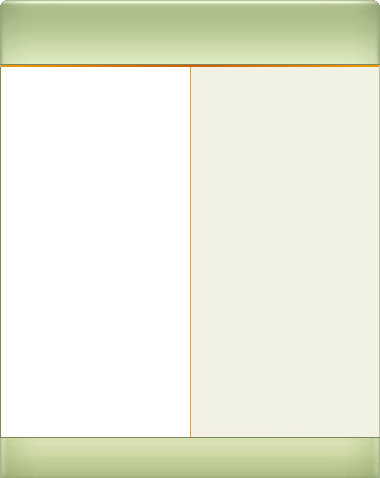
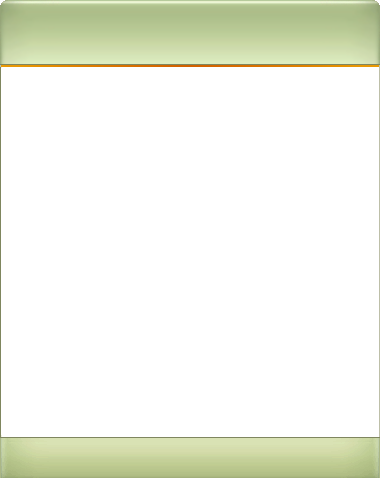
Implement some fixes from #33

diff --git a/Windows XP Homestead/cinnamon/cinnamon.css b/Windows XP Homestead/cinnamon/cinnamon.css
@@ -201,6 +201,8 @@ StScrollBar StButton#vhandle:hover {
   -gradient-height: 1px;
   -gradient-start: rgba(0,0,0,0);
   -gradient-end: rgba(255,255,255,0.2);
+  background-color: rgba(0,0,0,0.15);
+  box-shadow: 0 1px white;
   height: 1px;
 }
 .popup-alternating-menu-item:alternate {
@@ -2219,10 +2221,12 @@ The colour parameters are red, green, blue, and transparency or a name */
 .right-buttons-box {
   background-color: #f1f2e4;
   padding: 8px;
+  border: 0 solid #cca467;
+  border-left-width: 1px;
 }
 .starkmenu-background {
   border: solid 1px transparent;
-  border-image: url("menu-bg.png") 8 8 56 41;
+  border-image: url("menu-bg.png") 8 8 67 42;
   box-shadow: 2px 2px 2px rgba(0,0,0,0.5);
   padding: 54px 1px 29px 1px;
 }
@@ -2232,6 +2236,9 @@ The colour parameters are red, green, blue, and transparency or a name */
 .starkmenu-favorites-box {
   background-color: white;
   border: 0px solid black;
+}
+.starkmenu-favorites-box .menu-favorites-button {
+  padding: 4px;
 }
 .starkmenu-applications-box {
   padding: 0px 0px 0px 0px;

diff --git a/Windows XP Metallic/cinnamon/cinnamon.css b/Windows XP Metallic/cinnamon/cinnamon.css
@@ -199,6 +199,8 @@ StScrollBar StButton#vhandle:hover {
   -gradient-height: 1px;
   -gradient-start: rgba(0,0,0,0);
   -gradient-end: rgba(255,255,255,0.2);
+  background-color: rgba(0,0,0,0.15);
+  box-shadow: 0 1px white;
   height: 1px;
 }
 .popup-alternating-menu-item:alternate {
@@ -2261,10 +2263,12 @@ The colour parameters are red, green, blue, and transparency or a name */
 .right-buttons-box {
   background-color: #e6e6ed;
   padding: 8px;
+  border: 0 solid #b8b8c8;
+  border-left-width: 1px;
 }
 .starkmenu-background {
   border: solid 1px transparent;
-  border-image: url("menu-bg.png") 8 8 56 41;
+  border-image: url("menu-bg.png") 8 8 67 42;
   box-shadow: 2px 2px 2px rgba(0,0,0,0.5);
   padding: 52px 1px 29px 1px;
 }
@@ -2274,6 +2278,9 @@ The colour parameters are red, green, blue, and transparency or a name */
 .starkmenu-favorites-box {
   background-color: #fff;
   border: 0px solid #fff;
+}
+.starkmenu-favorites-box .menu-favorites-button {
+  padding: 4px;
 }
 .starkmenu-applications-box {
   padding: 0px 0px 0px 0px;

diff --git a/Windows XP Luna/cinnamon/cinnamon.css b/Windows XP Luna/cinnamon/cinnamon.css
@@ -200,6 +200,8 @@ StScrollBar StButton#vhandle:hover {
   -gradient-height: 1px;
   -gradient-start: rgba(0,0,0,0);
   -gradient-end: rgba(255,255,255,0.2);
+  background-color: rgba(0,0,0,0.15);
+  box-shadow: 0 1px white;
   height: 1px;
 }
 .popup-alternating-menu-item:alternate {
@@ -2257,10 +2259,12 @@ The colour parameters are red, green, blue, and transparency or a name */
 .right-buttons-box {
   background-color: #D3E5FA;
   padding: 8px;
+  border: 0 solid #a7b8cc;
+  border-left-width: 1px;
 }
 .starkmenu-background {
   border: solid 1px transparent;
-  border-image: url("menu-bg.png") 8 8 56 41;
+  border-image: url("menu-bg.png") 8 8 67 42;
   box-shadow: 2px 2px 2px rgba(0,0,0,0.5);
   padding: 54px 1px 29px 1px;
 }
@@ -2271,6 +2275,11 @@ The colour parameters are red, green, blue, and transparency or a name */
   background-color: #ffffff;
   border: 0px solid #ffffff;
 }
+
+.starkmenu-favorites-box .menu-favorites-button {
+  padding: 4px;
+}
+
 .starkmenu-applications-box {
   padding: 0px 0px 0px 0px;
 }
